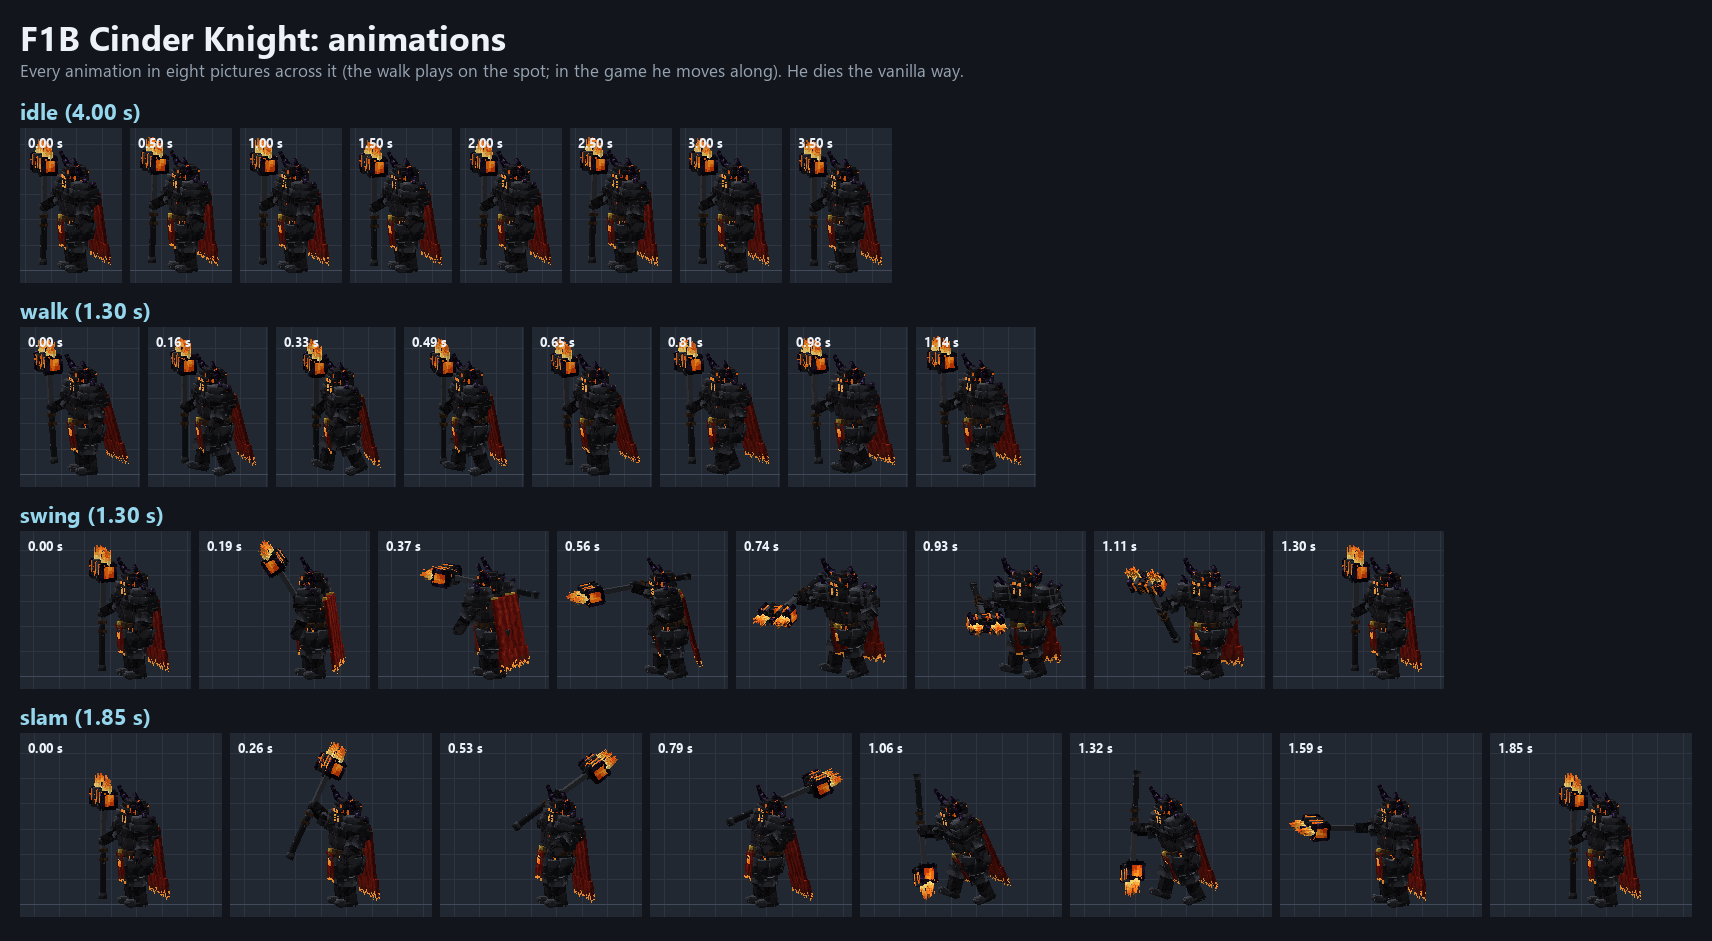
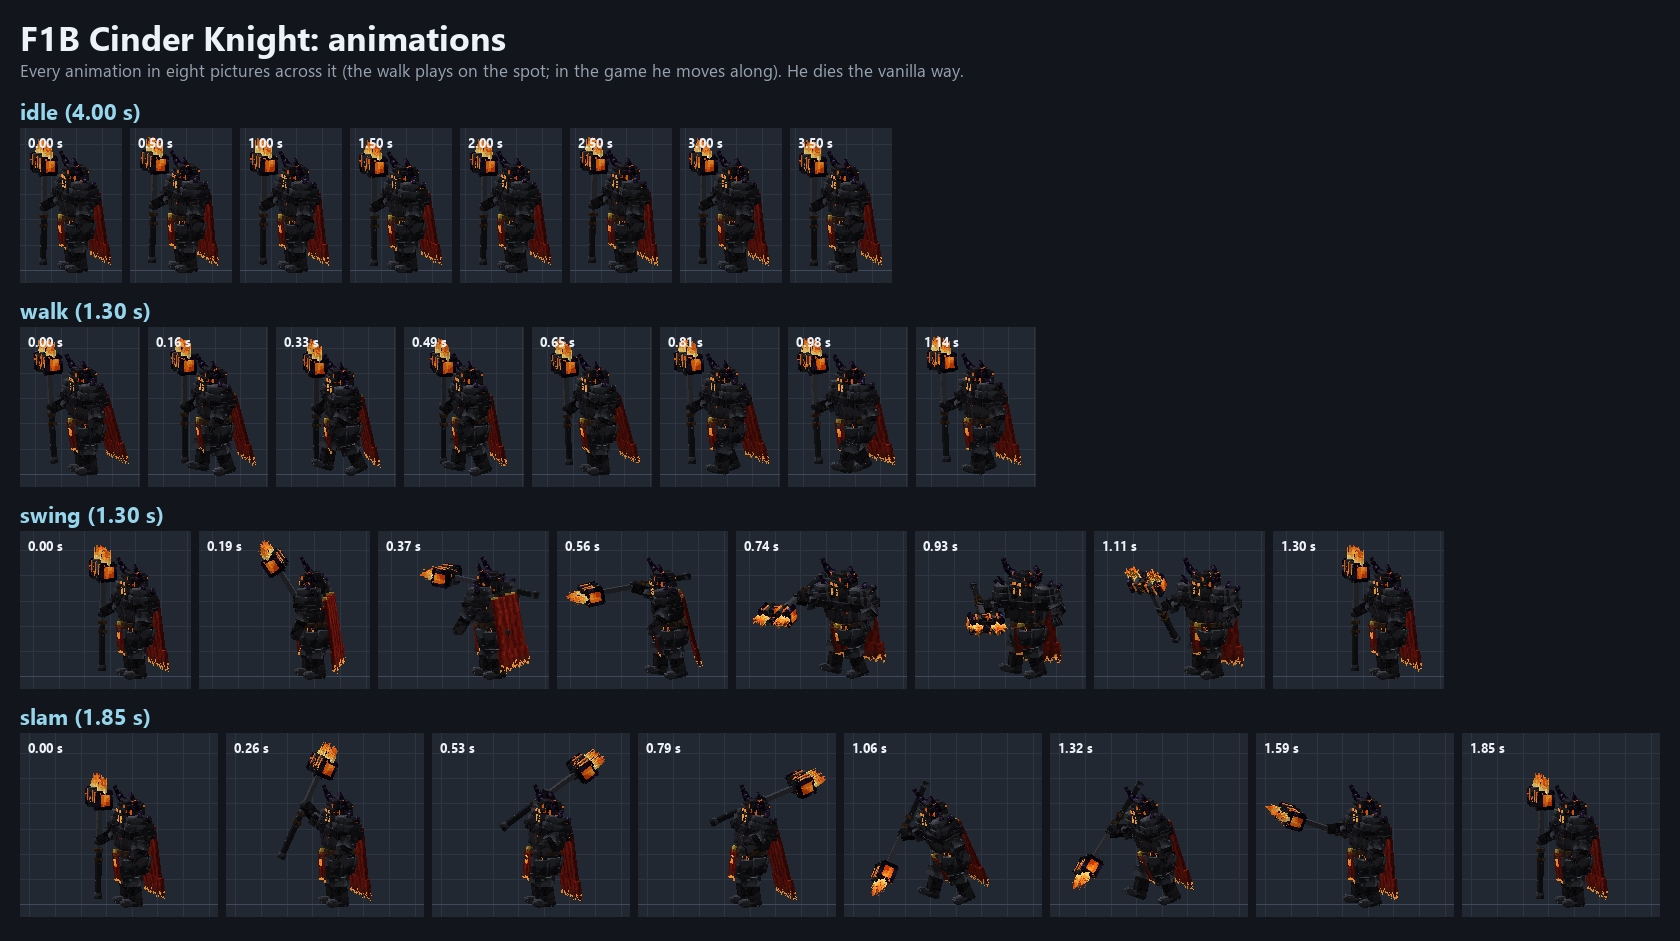
Knights: the Cinder Knight's slam comes down at a slant, its head on the ground before him

diff --git a/tools/knights/mobs.py b/tools/knights/mobs.py
@@ -194,7 +194,7 @@ KNIGHTS = [
            hand_l=K.HANG_FIST, heavy=0.9, speed=0.24, walk_t=1.3, walk_lean=2.0,
            walk_style=dict(stomp=1.0, roll=1.2, twist=1.5, arms=1.3, nod=1.2),
            moves={"swing": lambda r, k: flat_sweep(r, k, "swing", T=1.3, hit=0.66, **FIRE_HAMMER),
-                  "slam": lambda r, k: overhead_slam(r, k, name="slam", head_hit=160.0, strike=55.0, inward=25.0)}),
+                  "slam": lambda r, k: overhead_slam(r, k, name="slam", head_hit=130.0, strike=50.0, inward=25.0)}),
     Knight("flamehand", "F5", "Flamehand", "knightdesigns.f05_flamehand", hand_r=(-12.0, 44.0, -21.0),
            hand_l=(16.0, 52.0, -16.0), props=(("orb", ORB, "body"),), extra=flamehand_orb, gear="fists",
            heavy=0.1, speed=0.27, walk_t=0.95, walk_lean=2.0,
